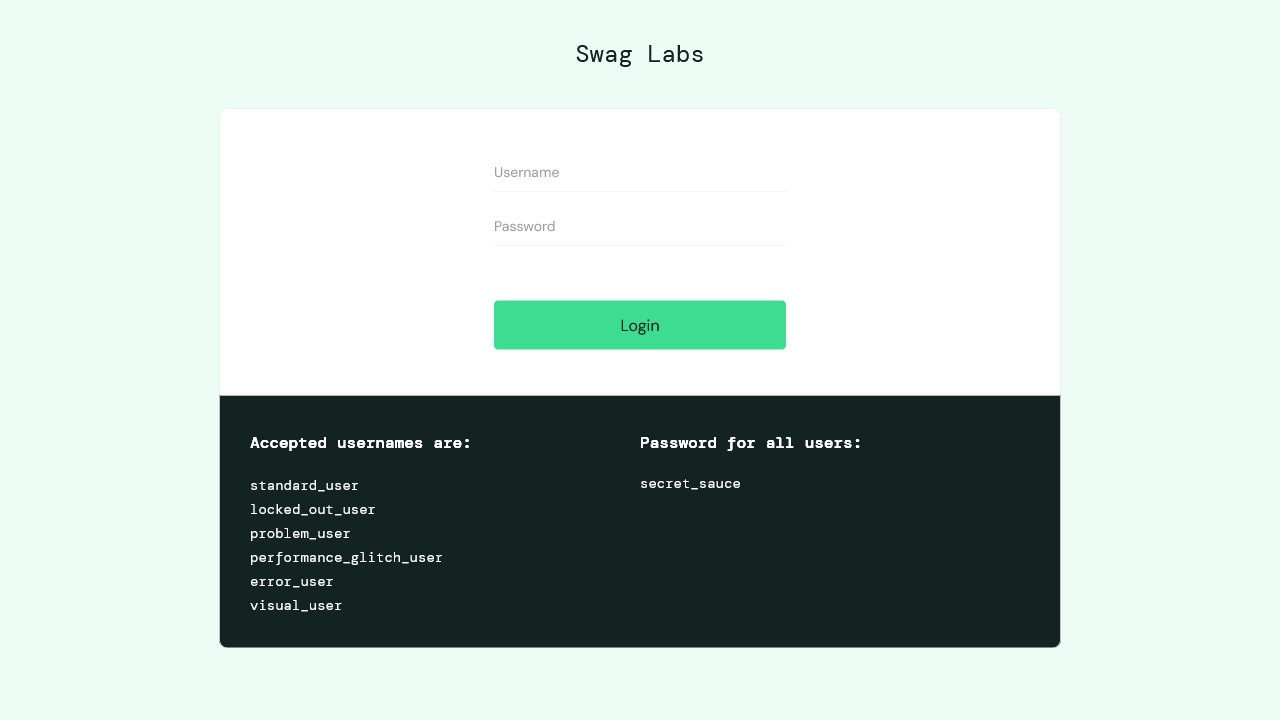
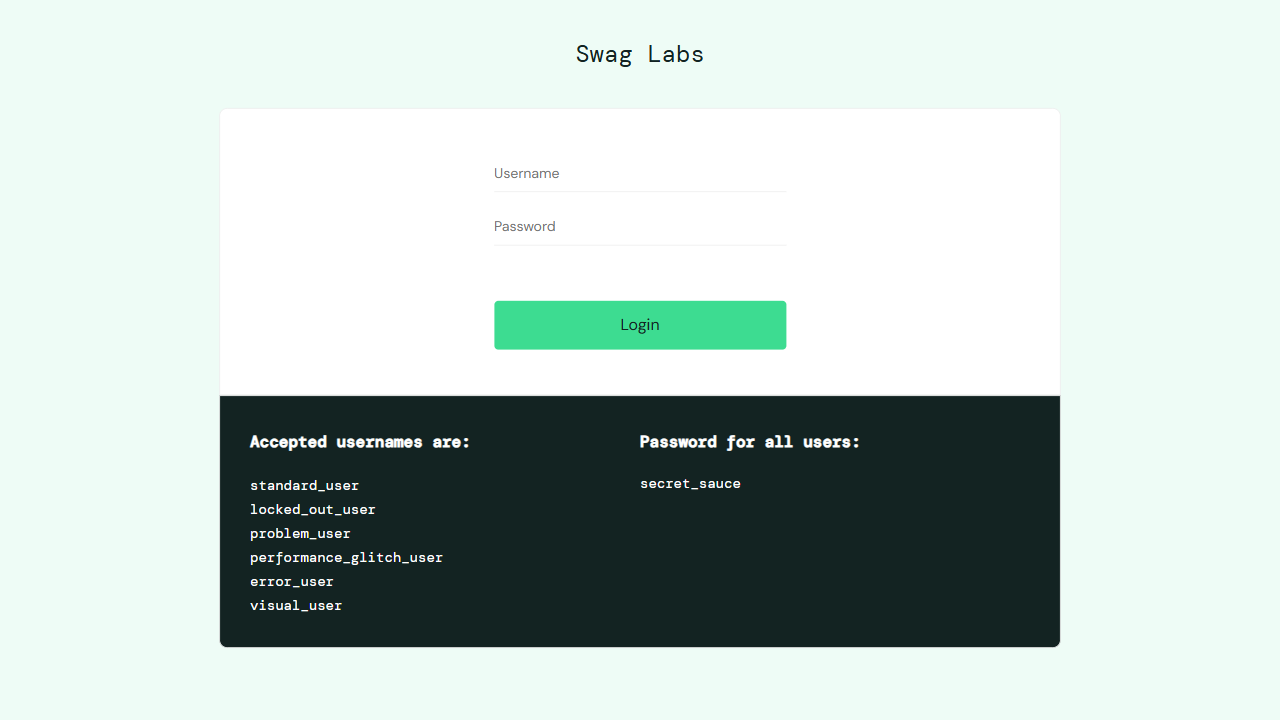
commit

diff --git a/tests/day3_js.spec.js b/tests/day3_js.spec.js
@@ -24,4 +24,25 @@ test('UI action demo', async ({page}) =>
 
     //6. Get by text
     await expect(page.getByText('products')).toBeVisible();
+
+    //7.clicking element
+    await page.locator('#add-to-cart-sauce-labs-backpack').click();
+
+    //8.Page assertion (cart count)
+    await expect(page.locator('.shopping_cart_badge')).toHaveText('1');
+
+    //6.Screenshot
+    await page.screenshot({ path: 'C:/Users/viveknandha/Downloads/playwright/screenshots/inventory.png'});
+
+    await page.waitForSelector('.inventory_list');
+    await page.waitForLoadState('networkidle');
+
+    await expect(page).toHaveScreenshot('inventorypage.png', {
+    maxDiffPixels: 1000
+    });
+
+    // Snapshot (visual testing)
+    await expect(page).toHaveScreenshot('inventorypage.png', {
+    fullPage: true
+    });
 })
